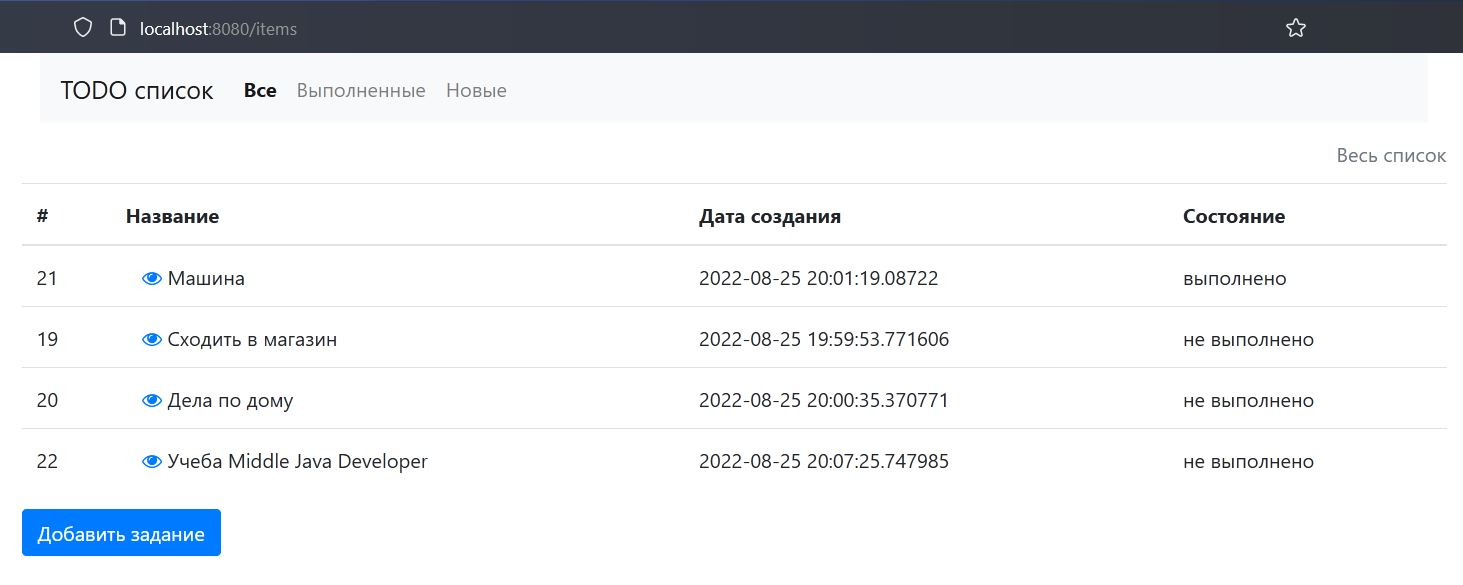
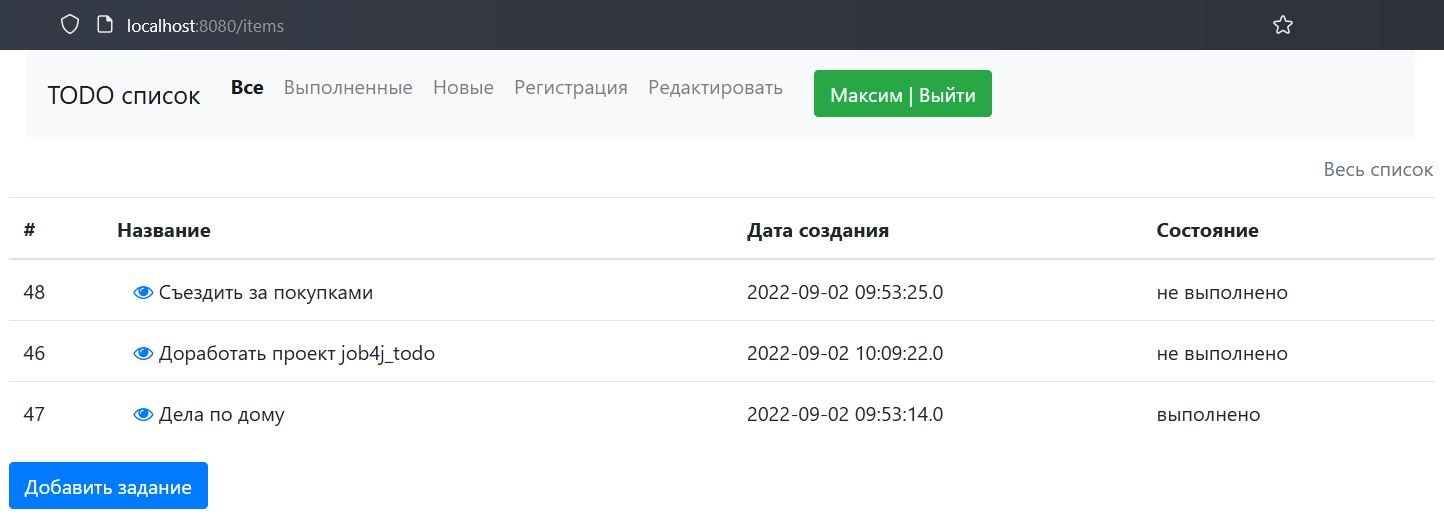
5. аутентификация в проекте TODO [#504877].Refactoring

diff --git a/src/main/resources/templates/item/update_item.html b/src/main/resources/templates/item/update_item.html
@@ -50,13 +50,13 @@
             </div>
         </div>
     </nav>
-    <div class="card-body">
+    <div class="card-body"><b>Редактировать задание:</b> <br><br>
         <form th:action="@{/updateItem}" method="POST">
             <input type="hidden" name="id" th:value="${item.id}"/>
             <div class="form-group">
-                <label for="name">Название задания</label><br>
-                <input type="text" name="name" th:value="${item.name}" id="name"/><br><br>
-                <label for="desc">Описание задания</label><br>
+                <label for="name">Название</label><br>
+                <input type="text" name="name" th:value="${item.name}" size="50" id="name"/><br><br>
+                <label for="desc">Описание</label><br>
                 <textarea name="description" th:text="${item.description}"
                           id="desc" cols="60" rows="12"></textarea><br><br>
                 <button type="submit" class="btn btn-warning">Редактировать</button>

diff --git a/src/main/resources/templates/item/add_item.html b/src/main/resources/templates/item/add_item.html
@@ -49,14 +49,14 @@
             </div>
         </div>
     </nav>
-    <div class="card-body">
+    <div class="card-body"> <b>Новое задание:</b><br><br>
         <form th:action="@{/addItem}" method="POST">
             <div class="form-group">
                 <input type="hidden" name="done" value="false"/>
-                <label for="name">Задание</label><br>
+                <label for="name">Название</label><br>
                 <input type="text" name="name" id="name" size="40"
                        placeholder="Введите название" required="required"/><br><br>
-                <label for="desc">Описание задания</label><br>
+                <label for="desc">Описание</label><br>
                 <textarea name="description" id="desc" style="height: 250px; width: 600px"
                           placeholder="Введите описание" required="required"></textarea><br><br>
                 <button type="submit" class="btn btn-info" style="float: left">Создать</button>

diff --git a/src/main/resources/templates/item/item.html b/src/main/resources/templates/item/item.html
@@ -50,8 +50,8 @@
         </div>
     </nav><br><br>
     <div class="form-group">
-        <h5 th:if="${item.done}==true"><span style="color: darkgreen">Сделано:</span></h5>
-        <h5 th:if="${item.done}!=true"><span style="color: crimson">Выполнить:</span></h5><br>
+        <h5 th:if="${item.done}==true" style="color: darkgreen">Сделано: <span th:text="${item.name}"></span></h5><br>
+        <h5 th:if="${item.done}!=true" style="color: crimson">Выполнить: <span th:text="${item.name}"></span></h5><br>
         <textarea th:text="${item.description}" cols="60" rows="12" readonly></textarea>
     </div>
         <div th:if="${item.done == false}">

diff --git a/src/main/resources/templates/item/index.html b/src/main/resources/templates/item/index.html
@@ -65,7 +65,7 @@
                     <td th:text="${item.id}"></td>
                     <td>
                         <a th:href="@{|/items/${item.id}|}">&nbsp&nbsp
-                            <i class="fa fa-eye" aria-hidden="true"></i>
+                            <i class="fa fa-eye" title="открыть описание" aria-hidden="true"></i>
                         </a> <span th:text="${item.name}"></span>
                     </td>
                     <td th:text="${item.created}"></td>

diff --git a/src/main/resources/templates/item/completed_items.html b/src/main/resources/templates/item/completed_items.html
@@ -65,7 +65,7 @@
                 <td th:text="${item.id}"></td>
                 <td>
                     <a th:href="@{|/items/${item.id}|}">&nbsp&nbsp
-                        <i class="fa fa-eye" aria-hidden="true"></i>
+                        <i class="fa fa-eye" title="открыть описание" aria-hidden="true"></i>
                     </a> <span th:text="${item.name}"></span>
                 </td>
                 <td th:text="${item.created}"></td>

diff --git a/src/main/resources/templates/item/new_items.html b/src/main/resources/templates/item/new_items.html
@@ -65,7 +65,7 @@
                 <td th:text="${item.id}"></td>
                 <td>
                     <a th:href="@{|/items/${item.id}|}">&nbsp&nbsp
-                        <i class="fa fa-eye" aria-hidden="true"></i>
+                        <i class="fa fa-eye" title="открыть описание" aria-hidden="true"></i>
                     </a> <span th:text="${item.name}"></span>
                 </td>
                 <td th:text="${item.created}"></td>

diff --git a/src/main/java/ru/job4j/todo/persistence/UserStoreImpl.java b/src/main/java/ru/job4j/todo/persistence/UserStoreImpl.java
@@ -6,7 +6,6 @@ import org.hibernate.query.Query;
 import org.springframework.stereotype.Repository;
 import ru.job4j.todo.entity.User;
 
-import java.util.List;
 import java.util.Optional;
 
 @Repository
@@ -28,6 +27,7 @@ public class UserStoreImpl implements UserStore {
         return user;
     }
 
+    @Override
     public boolean findUserByLogin(String login) {
         Session session = sf.openSession();
         session.beginTransaction();
@@ -40,6 +40,7 @@ public class UserStoreImpl implements UserStore {
         return userInDb.isPresent();
     }
 
+    @Override
     public Optional<User> findUserByLoginAndPwd(String login, String password) {
         Session session = sf.openSession();
         session.beginTransaction();
@@ -51,18 +52,6 @@ public class UserStoreImpl implements UserStore {
         session.getTransaction().commit();
         session.close();
         return userInDb;
-    }
-
-    @Override
-    public List<User> findAll() {
-        Session session = sf.openSession();
-        session.beginTransaction();
-        List<User> rsl = session.createQuery(
-                "from User", User.class
-        ).list();
-        session.getTransaction().commit();
-        session.close();
-        return rsl;
     }
 
     @Override
@@ -80,32 +69,6 @@ public class UserStoreImpl implements UserStore {
         session.getTransaction().commit();
         session.close();
         return rsl;
-    }
-
-    @Override
-    public boolean delete(int id) {
-        Session session = sf.openSession();
-        session.beginTransaction();
-        boolean rsl = session.createQuery(
-                        "delete from User where id = :fId", User.class
-                ).setParameter("fId", id)
-                .executeUpdate() > 0;
-        session.getTransaction().commit();
-        session.close();
-        return rsl;
-    }
-
-    @Override
-    public User findById(int id) {
-        Session session = sf.openSession();
-        session.beginTransaction();
-        Query<User> query = session.createQuery(
-                "from User where id = :fId", User.class
-        ).setParameter("fId", id);
-        User user = query.uniqueResult();
-        session.getTransaction().commit();
-        session.close();
-        return user;
     }
 
     @Override

diff --git a/src/main/java/ru/job4j/todo/controllers/ItemController.java b/src/main/java/ru/job4j/todo/controllers/ItemController.java
@@ -96,7 +96,9 @@ public class ItemController implements ManageSession {
     @PostMapping("/addItem")
     public String add(@ModelAttribute Item item, Model model) {
         User user = (User) model.getAttribute("user");
-        item.setCreated(Timestamp.valueOf(LocalDateTime.now()));
+        item.setCreated(
+                Timestamp.valueOf(LocalDateTime.now().withNano(0))
+        );
         item.setUserId(user.getId());
         itemService.create(item);
         return "redirect:/index";
@@ -105,7 +107,9 @@ public class ItemController implements ManageSession {
     @PostMapping("updateItem")
     public String update(@ModelAttribute Item item, Model model) {
         User user = (User) model.getAttribute("user");
-        item.setCreated(Timestamp.valueOf(LocalDateTime.now()));
+        item.setCreated(
+                Timestamp.valueOf(LocalDateTime.now().withNano(0))
+        );
         item.setUserId(user.getId());
         itemService.update(item);
         return "redirect:/index";

diff --git a/src/main/java/ru/job4j/todo/services/UserService.java b/src/main/java/ru/job4j/todo/services/UserService.java
@@ -4,7 +4,6 @@ import org.springframework.stereotype.Service;
 import ru.job4j.todo.entity.User;
 import ru.job4j.todo.persistence.UserStoreImpl;
 
-import java.util.List;
 import java.util.Optional;
 
 @Service
@@ -20,14 +19,6 @@ public class UserService {
         return store.add(user);
     }
 
-    public List<User> findAll() {
-        return store.findAll();
-    }
-
-    public User findById(int id) {
-        return store.findById(id);
-    }
-
     public boolean findUserByLogin(String login) {
         return store.findUserByLogin(login);
     }
@@ -38,9 +29,5 @@ public class UserService {
 
     public boolean update(User user) {
         return store.update(user);
-    }
-
-    public boolean delete(int id) {
-        return store.delete(id);
     }
 }

diff --git a/src/main/java/ru/job4j/todo/persistence/UserStore.java b/src/main/java/ru/job4j/todo/persistence/UserStore.java
@@ -2,17 +2,15 @@ package ru.job4j.todo.persistence;
 
 import ru.job4j.todo.entity.User;
 
-import java.util.List;
+import java.util.Optional;
 
 public interface UserStore extends AutoCloseable {
 
     User add(User user);
 
-    List<User> findAll();
-
     boolean update(User user);
 
-    boolean delete(int id);
+    Optional<User> findUserByLoginAndPwd(String login, String password);
 
-    User findById(int id);
+    boolean findUserByLogin(String login);
 }

diff --git a/README.md b/README.md
@@ -15,19 +15,55 @@
 Вид главной страницы приложения
 ![img.png](./screenshots/index.JPG)
 
-Вид страницы приложения по добавлению нового задания 
-![img.png](./screenshots/add_item.JPG)
+
+Вид страницы авторизации пользователя
+![img.png](./screenshots/authorization.JPG)
+
+
+Вид страницы не успешной авторизации пользователя
+![img.png](./screenshots/authorization_invalid.JPG)
+
+
+Вид страницы регистрации нового пользователя
+![img.png](./screenshots/registration.JPG)
+
+![img.png](./screenshots/registration_success.JPG)
+
+
+Вид страницы не успешной регистрации нового пользователя
+![img.png](./screenshots/registration_fail.JPG)
+
+
+Вид страницы приложения по добавлению нового задания
+![img.png](./screenshots/new_item.JPG)
 
 Вид страницы приложения с подробным описанием задания
-![img.png](./screenshots/description_item.JPG)
+![img.png](./screenshots/items.JPG)
+
+Страница описания задания
+![img.png](./screenshots/item_description.JPG)
 
 Вид страницы приложения для редактирования задания
-![img.png](./screenshots/update_item.JPG)
+![img.png](./screenshots/item_update.JPG)
+
+Вид страницы приложения для редактирования выполненного задания
+![img.png](./screenshots/index__.JPG)
+
+![img.png](./screenshots/item_done.JPG)
+
 
 Виды страниц приложения с разбивкой по статусу выполнения
-![img.png](./screenshots/completed_items.JPG)
 
-![img.png](./screenshots/new_items.JPG)
+Все задания
+![img.png](./screenshots/index_.JPG)
+
+Выполненные задания
+![img.png](./screenshots/items_completed.JPG)
+
+Новые задания
+![img.png](./screenshots/items_new.JPG)
+
+
 
 
 Используемые технологии в проекте:
